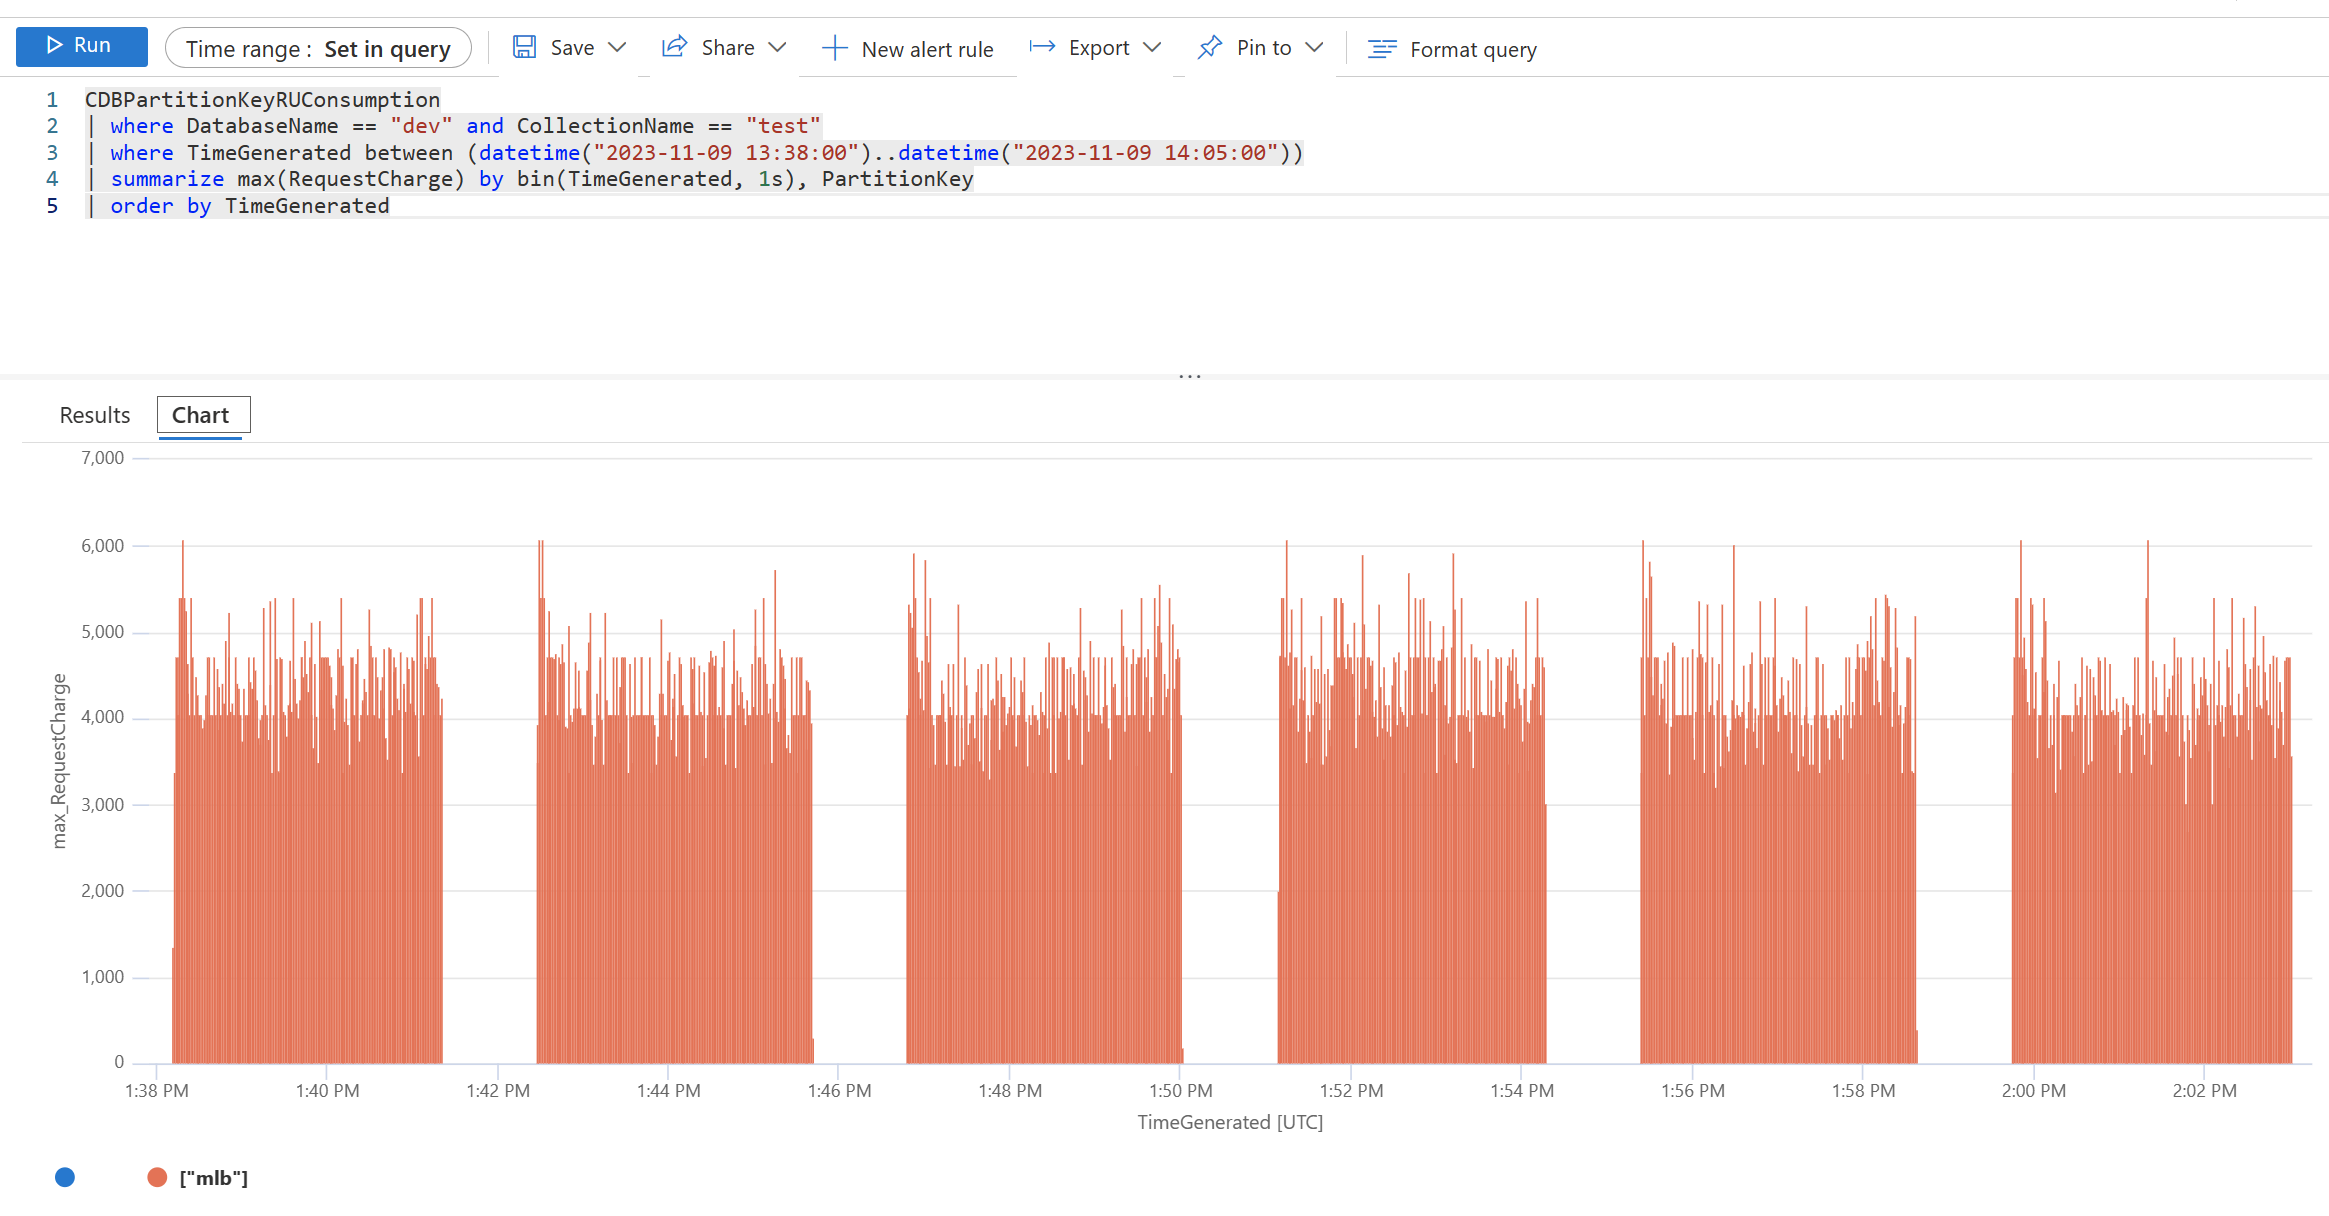
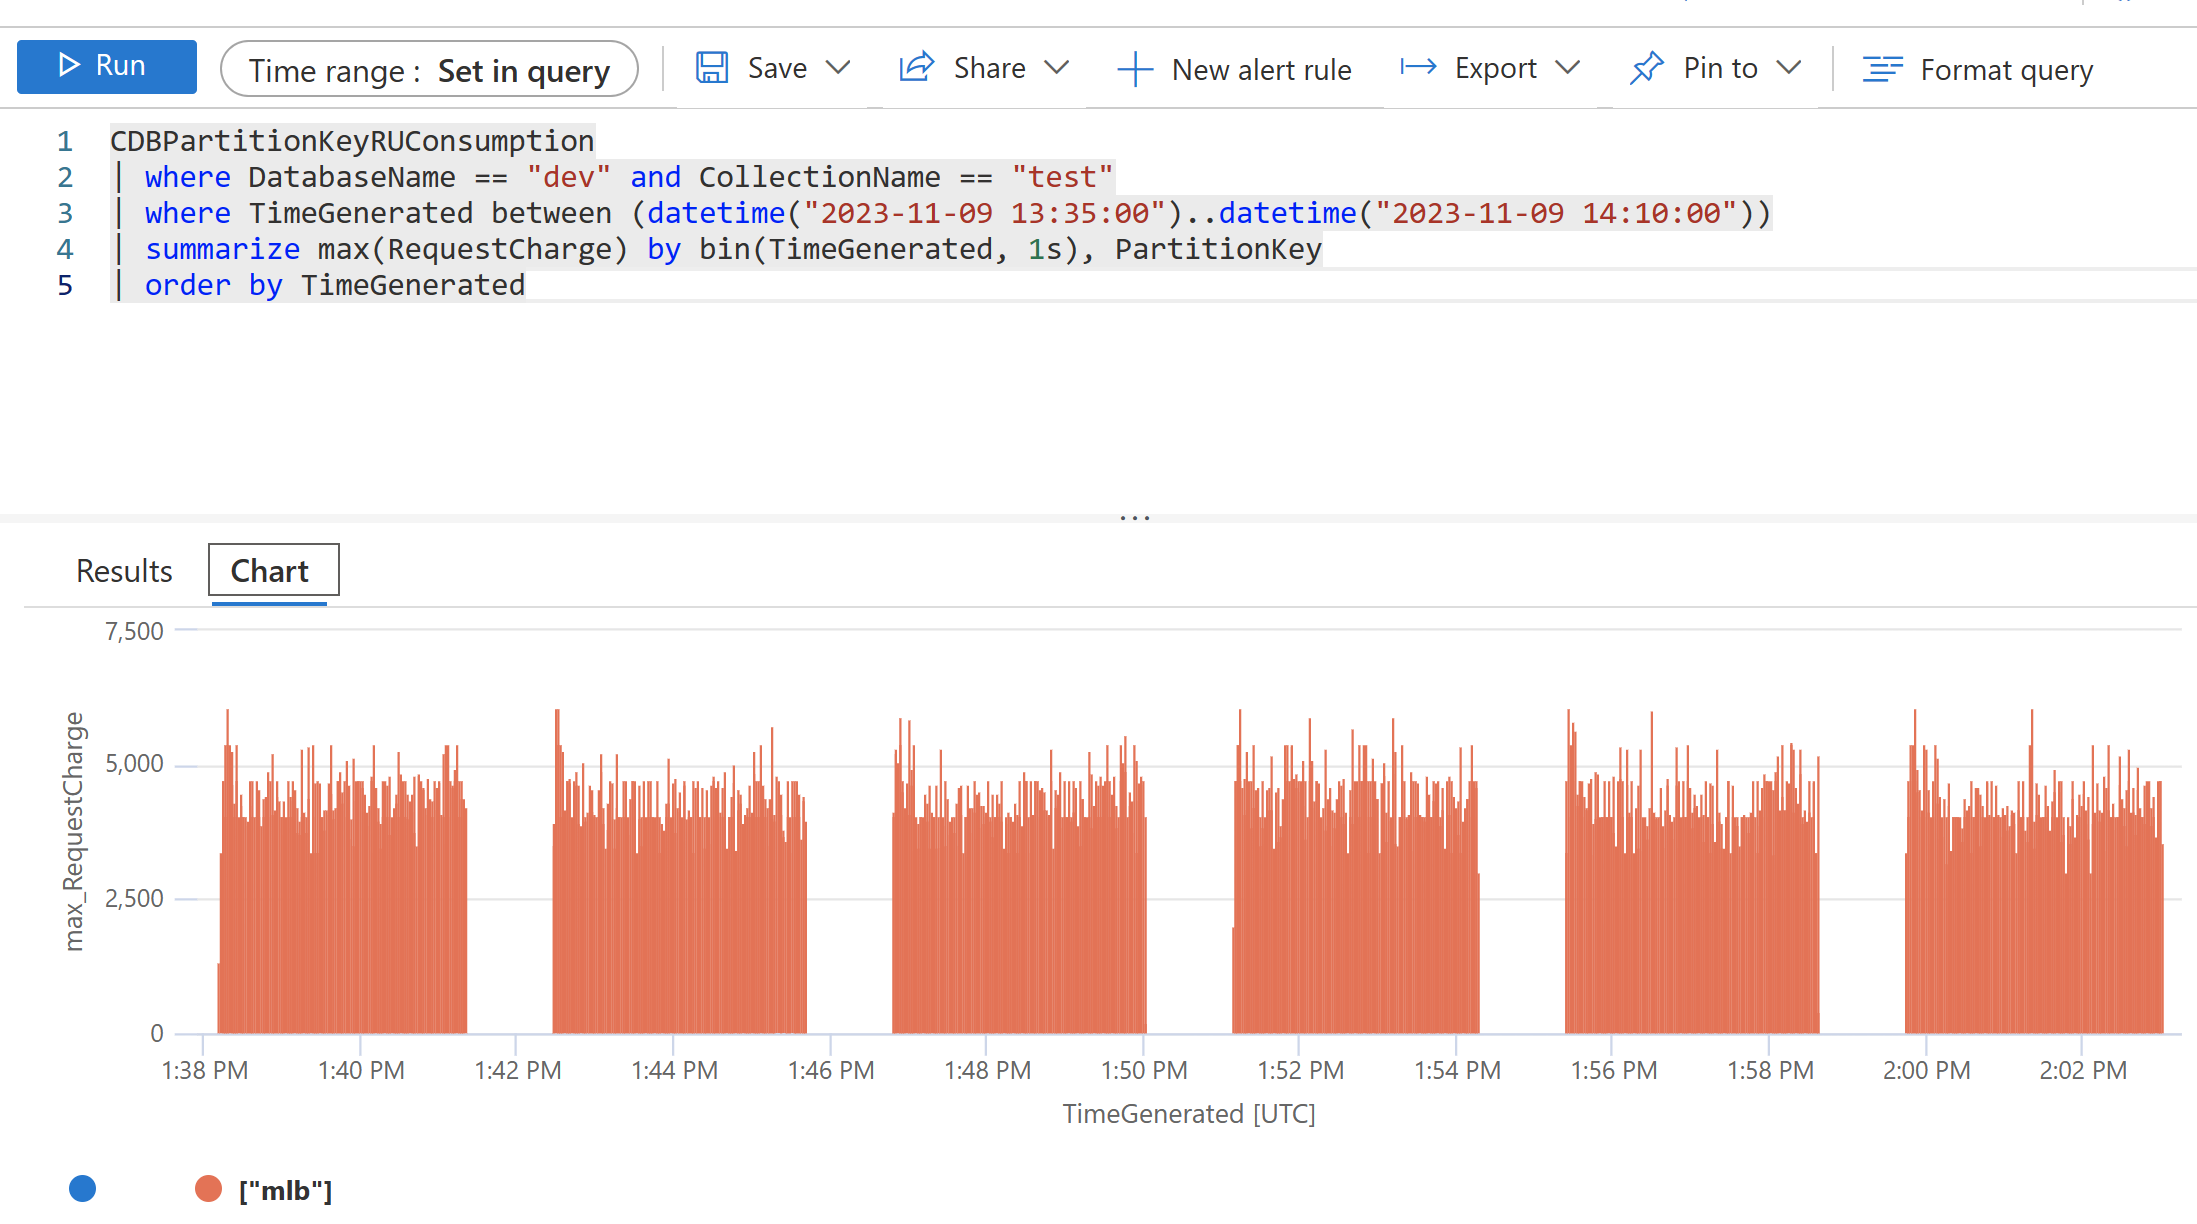
updated the README file with instructions and 11/9 results

diff --git a/java/readme.md b/java/readme.md
@@ -1,6 +1,63 @@
 # azure-cosmos-db-throughput : java
 
-Code samples related to Cosmos DB Throughput and Throughput Control
+Code samples related to Cosmos DB Throughput, Throughput Control, and Priority-based execution.
+
+Implementation highlights:
+- The implementation uses the Gradle build tool, version 7.4.2.
+- **com.azure:azure-cosmos:4.48.2** is the version of the Cosmos DB Java SDK that is used.
+- openjdk 17.0.7 2023-04-18 LTS was used to produce these test results.
+
+## Executing the test program
+
+```
+> cd <this directory>
+> mkdir tmp
+> gradle build
+
+> .\throughput_tests.ps1
+```
+
+The program reads a dataset of approx 60K Baseball Players which is in this repo
+and then bulk loads these into the same Cosmos DB database and container.
+Database 'dev' and container 'test' was used with this implementation.
+The partition key is /pk, and the container uses autoscale 4000 Request Units.
+All documents are written to the same logical partition - mlb.
+
+The throughput_tests.ps1 script executes six bulk loads of this same data,
+but with the following different throughput control configurations (see the build.gradle file).
+The script sleeps for 1-minute between tests.
+
+- throughput_test_low_priority - PriorityLevel.LOW
+- throughput_test_high_priority - PriorityLevel.HIGH
+- throughput_test_ru_limited_local - Local Throughput Control with 400 RUs, batch size 50
+- throughput_test_ru_limited_global - Global Throughput Control with 400 RUs, batch size 50
+- throughput_test_pct_limited_local - Local Throughput Control with 25% of RUs, batch size 50
+- throughput_test_pct_limited_global - Global Throughput Control with 25% of RUs, batch size 50
+
+The program logging includes generated KQL snippets for the timeframe of each test, such as:
+```
+09:03:01.708 [main] WARN  App - kql: | where TimeGenerated between (datetime("2023-11-09 13:59:43")..datetime("2023-11-09 14:03:01"))
+```
+
+### Azure Monitor Report
+
+An Azure Monitor KQL statement like the following can be executed to report on RU consumption thoughout the six tests:
+
+```
+CDBPartitionKeyRUConsumption
+| where DatabaseName == "dev" and CollectionName == "test"
+| where TimeGenerated between (datetime("2023-11-09 13:35:00")..datetime("2023-11-09 14:10:00"))
+| summarize max(RequestCharge) by bin(TimeGenerated, 1s), PartitionKey
+| order by TimeGenerated
+```
+
+The report can be viewed as the following chart:
+
+<p align="center">
+  <img src="../img/tests-2023-11-09a.png" width="95%">
+</p>
+
+---
 
 ## Links
 
@@ -32,142 +89,3 @@ Code samples related to Cosmos DB Throughput and Throughput Control
 > measure the utilization of provisioned throughput on a database or container. 
 > The metric is emitted at 1 minute intervals and is defined as the maximum RU/s utilization 
 > across all partition key ranges in the time interval.
-
-### CDBPartitionKeyRUConsumption
-
-#### By PartitionKey 
-
-Batch size 100 vs 10
-
-```
-CDBPartitionKeyRUConsumption
-| where DatabaseName == "dev" and CollectionName == "test"
-| where TimeGenerated between (datetime("2023-11-08 14:08:32")..datetime("2023-11-08 15:11:34"))
-| summarize max(RequestCharge) by bin(TimeGenerated, 1s), PartitionKey
-| order by TimeGenerated
-```
-
-```
-CDBPartitionKeyRUConsumption
-| where DatabaseName == "dev" and CollectionName == "test"
-| where TimeGenerated between (datetime("2023-11-07 12:00:00")..datetime("2023-11-07 20:00:00"))
-| summarize max(RequestCharge) by bin(TimeGenerated, 1s), PartitionKey
-| order by TimeGenerated
-```
-
-#### By PartitionKeyRangeId
-
-```
-CDBPartitionKeyRUConsumption
-| where DatabaseName == "dev" and CollectionName == "local"
-| where TimeGenerated between (datetime("2023-11-07 12:00:00")..datetime("2023-11-07 20:00:00"))
-| summarize max(RequestCharge) by bin(TimeGenerated, 1s), 
-| order by TimeGenerated
-```
-
-3:06pm  2023-11-07T20:09:21Z
-
-GMT 8:16pm = 3:16pm EST as of 11/7 (5-hour diff)
-
-```
-15:09:18.306 [main] WARN  App - ================================================================================
-15:09:18.313 [main] WARN  App - Iteration 0 dbname: dev, cname: test, pct: 0.15, team: all, batters: 61664
-15:09:18.313 [main] WARN  App - loadCosmosLocalThroughput - pct: 0.15, groupName: local1699387758313
-15:09:18.344 [main] WARN  App - starting executeBulkOperations, operation count: 61664
-15:09:20.295 [cosmos-rntbd-nio-2-2] INFO  SessionContainer - Registering a new collection resourceId [gm8hANAgVj0=] in SessionTokens
-15:11:17.402 [cosmos-parallel-2] INFO  RxDocumentClientImpl - Getting database account endpoint from https://gbbcjcdbnosql.documents.azure.com:443/
-15:12:35.214 [bulk-executor-bounded-elastic-6] INFO  BulkExecutor - Closing all sinks, Context: BulkExecutor-1[n/a]
-15:12:35.216 [bulk-executor-bounded-elastic-7] INFO  BulkExecutor - Closing all sinks, Context: BulkExecutor-1[n/a]
-15:12:35.216 [bulk-executor-bounded-elastic-7] INFO  BulkExecutor - Closing all sinks, Context: BulkExecutor-1[n/a]
-15:12:35.216 [main] WARN  App - completed executeBulkOperations in 196872
-15:12:35.216 [main] WARN  App - sleeping for 180000 ms
-15:15:35.226 [main] WARN  App - awake after sleep
-
-CDBPartitionKeyRUConsumption
-| where DatabaseName == "dev" and CollectionName == "test"
-| where TimeGenerated between (datetime("2023-11-07 20:09:18")..datetime("2023-11-07 20:12:35"))
-| summarize max(RequestCharge) by bin(TimeGenerated, 1s), PartitionKey
-| order by TimeGenerated asc
-
-
-15:15:35.226 [main] WARN  App - ================================================================================
-15:15:35.226 [main] WARN  App - Iteration 1 dbname: dev, cname: test, pct: 0.3, team: all, batters: 61664
-15:15:35.226 [main] WARN  App - loadCosmosLocalThroughput - pct: 0.3, groupName: local1699388135226
-15:15:35.238 [main] WARN  App - starting executeBulkOperations, operation count: 61664
-15:16:17.665 [cosmos-parallel-28] INFO  RxDocumentClientImpl - Getting database account endpoint from https://gbbcjcdbnosql.documents.azure.com:443/
-15:18:08.197 [bulk-executor-bounded-elastic-13] INFO  BulkExecutor - Closing all sinks, Context: BulkExecutor-2[n/a]
-15:18:08.197 [bulk-executor-bounded-elastic-14] INFO  BulkExecutor - Closing all sinks, Context: BulkExecutor-2[n/a]
-15:18:08.197 [bulk-executor-bounded-elastic-14] INFO  BulkExecutor - Closing all sinks, Context: BulkExecutor-2[n/a]
-15:18:08.197 [main] WARN  App - completed executeBulkOperations in 152959
-15:18:08.197 [main] WARN  App - sleeping for 180000 ms
-15:21:08.208 [main] WARN  App - awake after sleep
-
-CDBPartitionKeyRUConsumption
-| where DatabaseName == "dev" and CollectionName == "test"
-| where TimeGenerated between (datetime("2023-11-07 20:15:35")..datetime("2023-11-07 20:18:08"))
-| summarize max(RequestCharge) by bin(TimeGenerated, 1s), PartitionKey
-| order by TimeGenerated asc
-
-
-15:21:08.208 [main] WARN  App - ================================================================================
-15:21:08.208 [main] WARN  App - Iteration 2 dbname: dev, cname: test, pct: 0.45, team: all, batters: 61664
-15:21:08.208 [main] WARN  App - loadCosmosLocalThroughput - pct: 0.45, groupName: local1699388468208
-15:21:08.215 [main] WARN  App - starting executeBulkOperations, operation count: 61664
-15:21:17.741 [cosmos-parallel-7] INFO  RxDocumentClientImpl - Getting database account endpoint from https://gbbcjcdbnosql.documents.azure.com:443/
-15:23:40.960 [bulk-executor-bounded-elastic-20] INFO  BulkExecutor - Closing all sinks, Context: BulkExecutor-3[n/a]
-15:23:40.961 [bulk-executor-bounded-elastic-21] INFO  BulkExecutor - Closing all sinks, Context: BulkExecutor-3[n/a]
-15:23:40.961 [bulk-executor-bounded-elastic-21] INFO  BulkExecutor - Closing all sinks, Context: BulkExecutor-3[n/a]
-15:23:40.961 [main] WARN  App - completed executeBulkOperations in 152746
-15:23:40.961 [main] WARN  App - sleeping for 180000 ms
-15:26:17.781 [cosmos-parallel-2] INFO  RxDocumentClientImpl - Getting database account endpoint from https://gbbcjcdbnosql.documents.azure.com:443/
-15:26:40.968 [main] WARN  App - awake after sleep
-
-
-15:26:40.968 [main] WARN  App - ================================================================================
-15:26:40.968 [main] WARN  App - Iteration 3 dbname: dev, cname: test, pct: 0.6, team: all, batters: 61664
-15:26:40.968 [main] WARN  App - loadCosmosLocalThroughput - pct: 0.6, groupName: local1699388800968
-15:26:40.989 [main] WARN  App - starting executeBulkOperations, operation count: 61664
-15:29:13.136 [bulk-executor-bounded-elastic-27] INFO  BulkExecutor - Closing all sinks, Context: BulkExecutor-4[n/a]
-15:29:13.136 [bulk-executor-bounded-elastic-28] INFO  BulkExecutor - Closing all sinks, Context: BulkExecutor-4[n/a]
-15:29:13.136 [bulk-executor-bounded-elastic-28] INFO  BulkExecutor - Closing all sinks, Context: BulkExecutor-4[n/a]
-15:29:13.136 [main] WARN  App - completed executeBulkOperations in 152147
-```
-
-
-```
-CDBPartitionKeyRUConsumption
-| where DatabaseName == "dev" and CollectionName == "test"
-| where TimeGenerated between (datetime("2023-11-07 20:09:18")..datetime("2023-11-07 20:12:18"))
-| summarize max(RequestCharge) by bin(TimeGenerated, 1s), PartitionKeyRangeId
-| order by TimeGenerated
-```
-
-### Other KQL Queries
-
-```
-CDBPartitionKeyRUConsumption
-| where TimeGenerated >= now(-30m)
-| where DatabaseName == "dev" and CollectionName == "local"
-| summarize sum(todouble(RequestCharge)) by toint(PartitionKeyRangeId)
-| render columnchart
-```
-
-```
-CDBPartitionKeyRUConsumption
-| where TimeGenerated >= now(-30m)
-| where DatabaseName == "dev" and CollectionName == "local"
-| summarize sum(todouble(RequestCharge)) by PartitionKey, PartitionKeyRangeId
-| render columnchart
-```
-
-
-```
-CDBPartitionKeyStatistics
-| project RegionName, DatabaseName, CollectionName, PartitionKey, SizeKb
-
-CDBPartitionKeyStatistics
-| where DatabaseName == "dev" and CollectionName == "test"
-| project RegionName, DatabaseName, CollectionName, PartitionKey, SizeKb
-```
-
-

diff --git a/README.md b/README.md
@@ -1,8 +1,10 @@
 # azure-cosmos-db-throughput
 
-Code samples related to Cosmos DB Throughput and Throughput Control
+Code samples related to Cosmos DB Throughput, Throughput Control,
+and Priority-based execution.
 
 See the language-specific subdirectories.
+At this time on the java/ directory is implemented.
 
 ## Dataset Used : Sean Lahman Baseball Database
 
